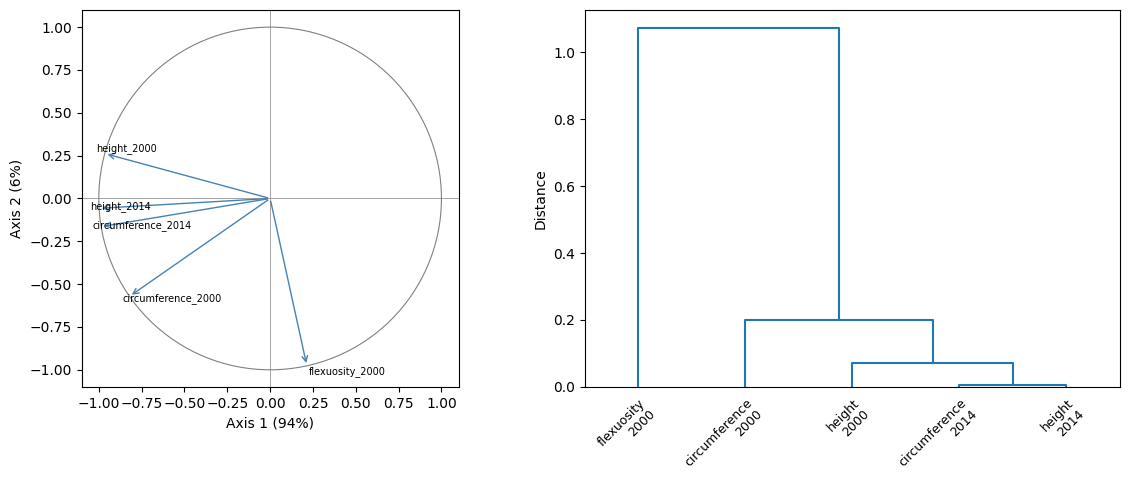
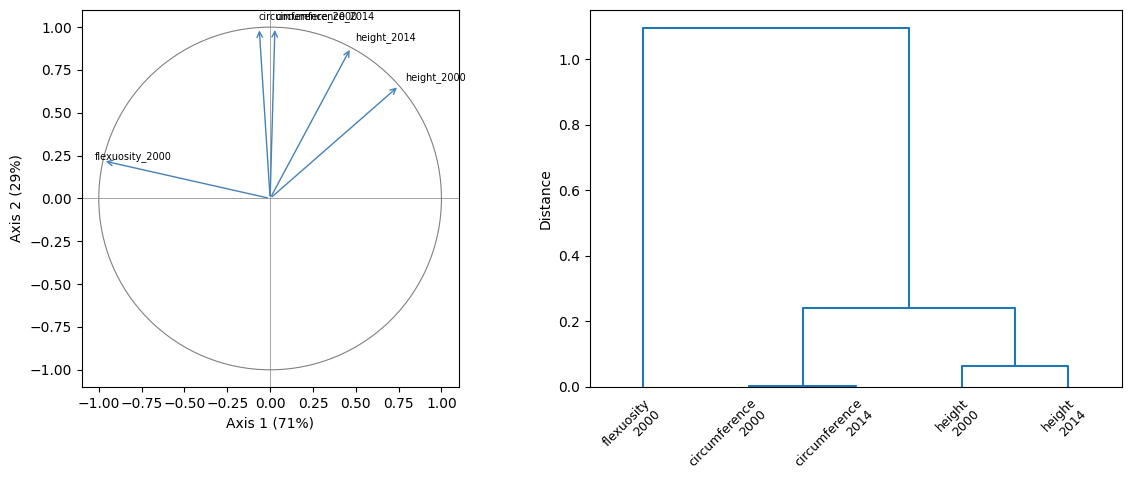
Built site for gh-pages

diff --git a/multivariate.html b/multivariate.html
@@ -389,68 +389,69 @@ window.Quarto = {
 <span id="cb4-21"><a href="#cb4-21" aria-hidden="true" tabindex="-1"></a></span>
 <span id="cb4-22"><a href="#cb4-22" aria-hidden="true" tabindex="-1"></a><span class="co"># prepare data</span></span>
 <span id="cb4-23"><a href="#cb4-23" aria-hidden="true" tabindex="-1"></a>df <span class="op">=</span> df[df[<span class="st">"year"</span>].isin([<span class="dv">2000</span>, <span class="dv">2014</span>])]</span>
-<span id="cb4-24"><a href="#cb4-24" aria-hidden="true" tabindex="-1"></a></span>
-<span id="cb4-25"><a href="#cb4-25" aria-hidden="true" tabindex="-1"></a><span class="bu">long</span> <span class="op">=</span> df.melt(</span>
-<span id="cb4-26"><a href="#cb4-26" aria-hidden="true" tabindex="-1"></a>    id_vars<span class="op">=</span>[<span class="st">"ID"</span>, <span class="st">"DAM"</span>, <span class="st">"SIRE"</span>, <span class="st">"BLOC"</span>, <span class="st">"year"</span>],</span>
-<span id="cb4-27"><a href="#cb4-27" aria-hidden="true" tabindex="-1"></a>    value_vars<span class="op">=</span>traits,</span>
-<span id="cb4-28"><a href="#cb4-28" aria-hidden="true" tabindex="-1"></a>    var_name<span class="op">=</span><span class="st">"trait"</span>,</span>
-<span id="cb4-29"><a href="#cb4-29" aria-hidden="true" tabindex="-1"></a>    value_name<span class="op">=</span><span class="st">"value"</span></span>
-<span id="cb4-30"><a href="#cb4-30" aria-hidden="true" tabindex="-1"></a>)</span>
-<span id="cb4-31"><a href="#cb4-31" aria-hidden="true" tabindex="-1"></a><span class="bu">long</span>[<span class="st">"resp"</span>] <span class="op">=</span> <span class="bu">long</span>[<span class="st">"trait"</span>] <span class="op">+</span> <span class="st">"_"</span> <span class="op">+</span> <span class="bu">long</span>[<span class="st">"year"</span>].astype(<span class="bu">str</span>)</span>
-<span id="cb4-32"><a href="#cb4-32" aria-hidden="true" tabindex="-1"></a>wide <span class="op">=</span> (</span>
-<span id="cb4-33"><a href="#cb4-33" aria-hidden="true" tabindex="-1"></a>    <span class="bu">long</span>.pivot_table(</span>
-<span id="cb4-34"><a href="#cb4-34" aria-hidden="true" tabindex="-1"></a>    index<span class="op">=</span>[<span class="st">"ID"</span>, <span class="st">"DAM"</span>, <span class="st">"SIRE"</span>, <span class="st">"BLOC"</span>],</span>
-<span id="cb4-35"><a href="#cb4-35" aria-hidden="true" tabindex="-1"></a>    columns<span class="op">=</span><span class="st">"resp"</span>, values<span class="op">=</span><span class="st">"value"</span></span>
-<span id="cb4-36"><a href="#cb4-36" aria-hidden="true" tabindex="-1"></a>    ).dropna(</span>
-<span id="cb4-37"><a href="#cb4-37" aria-hidden="true" tabindex="-1"></a>        axis<span class="op">=</span><span class="dv">1</span>,</span>
-<span id="cb4-38"><a href="#cb4-38" aria-hidden="true" tabindex="-1"></a>        how<span class="op">=</span><span class="st">"all"</span></span>
-<span id="cb4-39"><a href="#cb4-39" aria-hidden="true" tabindex="-1"></a>    ).reset_index()</span>
-<span id="cb4-40"><a href="#cb4-40" aria-hidden="true" tabindex="-1"></a>)</span>
-<span id="cb4-41"><a href="#cb4-41" aria-hidden="true" tabindex="-1"></a>responses <span class="op">=</span> [</span>
-<span id="cb4-42"><a href="#cb4-42" aria-hidden="true" tabindex="-1"></a>    c <span class="cf">for</span> c <span class="kw">in</span> wide.columns <span class="cf">if</span> c <span class="kw">not</span> <span class="kw">in</span> (</span>
-<span id="cb4-43"><a href="#cb4-43" aria-hidden="true" tabindex="-1"></a>        <span class="st">"ID"</span>,</span>
-<span id="cb4-44"><a href="#cb4-44" aria-hidden="true" tabindex="-1"></a>        <span class="st">"DAM"</span>,</span>
-<span id="cb4-45"><a href="#cb4-45" aria-hidden="true" tabindex="-1"></a>        <span class="st">"SIRE"</span>,</span>
-<span id="cb4-46"><a href="#cb4-46" aria-hidden="true" tabindex="-1"></a>        <span class="st">"BLOC"</span></span>
-<span id="cb4-47"><a href="#cb4-47" aria-hidden="true" tabindex="-1"></a>    )</span>
-<span id="cb4-48"><a href="#cb4-48" aria-hidden="true" tabindex="-1"></a>]</span>
-<span id="cb4-49"><a href="#cb4-49" aria-hidden="true" tabindex="-1"></a></span>
-<span id="cb4-50"><a href="#cb4-50" aria-hidden="true" tabindex="-1"></a><span class="co"># compute kinship</span></span>
-<span id="cb4-51"><a href="#cb4-51" aria-hidden="true" tabindex="-1"></a>ped <span class="op">=</span> prepare_pedigree(</span>
-<span id="cb4-52"><a href="#cb4-52" aria-hidden="true" tabindex="-1"></a>    wide[[</span>
-<span id="cb4-53"><a href="#cb4-53" aria-hidden="true" tabindex="-1"></a>        <span class="st">"ID"</span>,</span>
-<span id="cb4-54"><a href="#cb4-54" aria-hidden="true" tabindex="-1"></a>        <span class="st">"DAM"</span>,</span>
-<span id="cb4-55"><a href="#cb4-55" aria-hidden="true" tabindex="-1"></a>        <span class="st">"SIRE"</span></span>
-<span id="cb4-56"><a href="#cb4-56" aria-hidden="true" tabindex="-1"></a>    ]]</span>
-<span id="cb4-57"><a href="#cb4-57" aria-hidden="true" tabindex="-1"></a>)</span>
-<span id="cb4-58"><a href="#cb4-58" aria-hidden="true" tabindex="-1"></a>A   <span class="op">=</span> A_pedigree(ped)</span>
-<span id="cb4-59"><a href="#cb4-59" aria-hidden="true" tabindex="-1"></a></span>
-<span id="cb4-60"><a href="#cb4-60" aria-hidden="true" tabindex="-1"></a><span class="co"># initiatlisation</span></span>
-<span id="cb4-61"><a href="#cb4-61" aria-hidden="true" tabindex="-1"></a>P <span class="op">=</span> wide[responses].cov().to_numpy()</span>
-<span id="cb4-62"><a href="#cb4-62" aria-hidden="true" tabindex="-1"></a></span>
-<span id="cb4-63"><a href="#cb4-63" aria-hidden="true" tabindex="-1"></a><span class="co"># run the FA model</span></span>
-<span id="cb4-64"><a href="#cb4-64" aria-hidden="true" tabindex="-1"></a>model <span class="op">=</span> MixedModel.from_dataframe(</span>
-<span id="cb4-65"><a href="#cb4-65" aria-hidden="true" tabindex="-1"></a>    data     <span class="op">=</span> wide,</span>
-<span id="cb4-66"><a href="#cb4-66" aria-hidden="true" tabindex="-1"></a>    response <span class="op">=</span> responses,</span>
-<span id="cb4-67"><a href="#cb4-67" aria-hidden="true" tabindex="-1"></a>    fixed    <span class="op">=</span> <span class="st">"1"</span>,</span>
-<span id="cb4-68"><a href="#cb4-68" aria-hidden="true" tabindex="-1"></a>    random   <span class="op">=</span> Random(</span>
-<span id="cb4-69"><a href="#cb4-69" aria-hidden="true" tabindex="-1"></a>        unit         <span class="op">=</span> <span class="st">"ID"</span>,</span>
-<span id="cb4-70"><a href="#cb4-70" aria-hidden="true" tabindex="-1"></a>        left_hand    <span class="op">=</span> <span class="st">"fa"</span>,</span>
-<span id="cb4-71"><a href="#cb4-71" aria-hidden="true" tabindex="-1"></a>        n_axes       <span class="op">=</span> <span class="dv">2</span>,</span>
-<span id="cb4-72"><a href="#cb4-72" aria-hidden="true" tabindex="-1"></a>        right_hand   <span class="op">=</span> <span class="st">"str"</span>,</span>
-<span id="cb4-73"><a href="#cb4-73" aria-hidden="true" tabindex="-1"></a>        covariance   <span class="op">=</span> A,</span>
-<span id="cb4-74"><a href="#cb4-74" aria-hidden="true" tabindex="-1"></a>        matrix_index <span class="op">=</span> ped[<span class="st">"id"</span>].tolist(),</span>
-<span id="cb4-75"><a href="#cb4-75" aria-hidden="true" tabindex="-1"></a>        init         <span class="op">=</span> P<span class="op">/</span><span class="dv">2</span>,</span>
-<span id="cb4-76"><a href="#cb4-76" aria-hidden="true" tabindex="-1"></a>        jitter       <span class="op">=</span> <span class="fl">1e-6</span>,</span>
-<span id="cb4-77"><a href="#cb4-77" aria-hidden="true" tabindex="-1"></a>    ),</span>
-<span id="cb4-78"><a href="#cb4-78" aria-hidden="true" tabindex="-1"></a>    residual <span class="op">=</span> Residual(</span>
-<span id="cb4-79"><a href="#cb4-79" aria-hidden="true" tabindex="-1"></a>        left_hand    <span class="op">=</span> <span class="st">"fa"</span>,</span>
-<span id="cb4-80"><a href="#cb4-80" aria-hidden="true" tabindex="-1"></a>        n_axes       <span class="op">=</span> <span class="dv">2</span>,</span>
-<span id="cb4-81"><a href="#cb4-81" aria-hidden="true" tabindex="-1"></a>        right_hand   <span class="op">=</span> <span class="st">"iid"</span>,</span>
-<span id="cb4-82"><a href="#cb4-82" aria-hidden="true" tabindex="-1"></a>        init         <span class="op">=</span> P<span class="op">/</span><span class="dv">2</span>,</span>
-<span id="cb4-83"><a href="#cb4-83" aria-hidden="true" tabindex="-1"></a>        jitter       <span class="op">=</span> <span class="fl">1e-6</span>,</span>
-<span id="cb4-84"><a href="#cb4-84" aria-hidden="true" tabindex="-1"></a>    ),</span>
-<span id="cb4-85"><a href="#cb4-85" aria-hidden="true" tabindex="-1"></a>).fit()</span></code></pre></div><button title="Copy to Clipboard" class="code-copy-button"><i class="bi"></i></button></div>
+<span id="cb4-24"><a href="#cb4-24" aria-hidden="true" tabindex="-1"></a>df[traits] <span class="op">=</span> (df[traits] <span class="op">-</span> df[traits].mean()) <span class="op">/</span> df[traits].std()</span>
+<span id="cb4-25"><a href="#cb4-25" aria-hidden="true" tabindex="-1"></a></span>
+<span id="cb4-26"><a href="#cb4-26" aria-hidden="true" tabindex="-1"></a><span class="bu">long</span> <span class="op">=</span> df.melt(</span>
+<span id="cb4-27"><a href="#cb4-27" aria-hidden="true" tabindex="-1"></a>    id_vars<span class="op">=</span>[<span class="st">"ID"</span>, <span class="st">"DAM"</span>, <span class="st">"SIRE"</span>, <span class="st">"BLOC"</span>, <span class="st">"year"</span>],</span>
+<span id="cb4-28"><a href="#cb4-28" aria-hidden="true" tabindex="-1"></a>    value_vars<span class="op">=</span>traits,</span>
+<span id="cb4-29"><a href="#cb4-29" aria-hidden="true" tabindex="-1"></a>    var_name<span class="op">=</span><span class="st">"trait"</span>,</span>
+<span id="cb4-30"><a href="#cb4-30" aria-hidden="true" tabindex="-1"></a>    value_name<span class="op">=</span><span class="st">"value"</span></span>
+<span id="cb4-31"><a href="#cb4-31" aria-hidden="true" tabindex="-1"></a>)</span>
+<span id="cb4-32"><a href="#cb4-32" aria-hidden="true" tabindex="-1"></a><span class="bu">long</span>[<span class="st">"resp"</span>] <span class="op">=</span> <span class="bu">long</span>[<span class="st">"trait"</span>] <span class="op">+</span> <span class="st">"_"</span> <span class="op">+</span> <span class="bu">long</span>[<span class="st">"year"</span>].astype(<span class="bu">str</span>)</span>
+<span id="cb4-33"><a href="#cb4-33" aria-hidden="true" tabindex="-1"></a>wide <span class="op">=</span> (</span>
+<span id="cb4-34"><a href="#cb4-34" aria-hidden="true" tabindex="-1"></a>    <span class="bu">long</span>.pivot_table(</span>
+<span id="cb4-35"><a href="#cb4-35" aria-hidden="true" tabindex="-1"></a>    index<span class="op">=</span>[<span class="st">"ID"</span>, <span class="st">"DAM"</span>, <span class="st">"SIRE"</span>, <span class="st">"BLOC"</span>],</span>
+<span id="cb4-36"><a href="#cb4-36" aria-hidden="true" tabindex="-1"></a>    columns<span class="op">=</span><span class="st">"resp"</span>, values<span class="op">=</span><span class="st">"value"</span></span>
+<span id="cb4-37"><a href="#cb4-37" aria-hidden="true" tabindex="-1"></a>    ).dropna(</span>
+<span id="cb4-38"><a href="#cb4-38" aria-hidden="true" tabindex="-1"></a>        axis<span class="op">=</span><span class="dv">1</span>,</span>
+<span id="cb4-39"><a href="#cb4-39" aria-hidden="true" tabindex="-1"></a>        how<span class="op">=</span><span class="st">"all"</span></span>
+<span id="cb4-40"><a href="#cb4-40" aria-hidden="true" tabindex="-1"></a>    ).reset_index()</span>
+<span id="cb4-41"><a href="#cb4-41" aria-hidden="true" tabindex="-1"></a>)</span>
+<span id="cb4-42"><a href="#cb4-42" aria-hidden="true" tabindex="-1"></a>responses <span class="op">=</span> [</span>
+<span id="cb4-43"><a href="#cb4-43" aria-hidden="true" tabindex="-1"></a>    c <span class="cf">for</span> c <span class="kw">in</span> wide.columns <span class="cf">if</span> c <span class="kw">not</span> <span class="kw">in</span> (</span>
+<span id="cb4-44"><a href="#cb4-44" aria-hidden="true" tabindex="-1"></a>        <span class="st">"ID"</span>,</span>
+<span id="cb4-45"><a href="#cb4-45" aria-hidden="true" tabindex="-1"></a>        <span class="st">"DAM"</span>,</span>
+<span id="cb4-46"><a href="#cb4-46" aria-hidden="true" tabindex="-1"></a>        <span class="st">"SIRE"</span>,</span>
+<span id="cb4-47"><a href="#cb4-47" aria-hidden="true" tabindex="-1"></a>        <span class="st">"BLOC"</span></span>
+<span id="cb4-48"><a href="#cb4-48" aria-hidden="true" tabindex="-1"></a>    )</span>
+<span id="cb4-49"><a href="#cb4-49" aria-hidden="true" tabindex="-1"></a>]</span>
+<span id="cb4-50"><a href="#cb4-50" aria-hidden="true" tabindex="-1"></a></span>
+<span id="cb4-51"><a href="#cb4-51" aria-hidden="true" tabindex="-1"></a><span class="co"># compute kinship</span></span>
+<span id="cb4-52"><a href="#cb4-52" aria-hidden="true" tabindex="-1"></a>ped <span class="op">=</span> prepare_pedigree(</span>
+<span id="cb4-53"><a href="#cb4-53" aria-hidden="true" tabindex="-1"></a>    wide[[</span>
+<span id="cb4-54"><a href="#cb4-54" aria-hidden="true" tabindex="-1"></a>        <span class="st">"ID"</span>,</span>
+<span id="cb4-55"><a href="#cb4-55" aria-hidden="true" tabindex="-1"></a>        <span class="st">"DAM"</span>,</span>
+<span id="cb4-56"><a href="#cb4-56" aria-hidden="true" tabindex="-1"></a>        <span class="st">"SIRE"</span></span>
+<span id="cb4-57"><a href="#cb4-57" aria-hidden="true" tabindex="-1"></a>    ]]</span>
+<span id="cb4-58"><a href="#cb4-58" aria-hidden="true" tabindex="-1"></a>)</span>
+<span id="cb4-59"><a href="#cb4-59" aria-hidden="true" tabindex="-1"></a>A   <span class="op">=</span> A_pedigree(ped)</span>
+<span id="cb4-60"><a href="#cb4-60" aria-hidden="true" tabindex="-1"></a></span>
+<span id="cb4-61"><a href="#cb4-61" aria-hidden="true" tabindex="-1"></a><span class="co"># initiatlisation</span></span>
+<span id="cb4-62"><a href="#cb4-62" aria-hidden="true" tabindex="-1"></a>P <span class="op">=</span> wide[responses].cov().to_numpy()</span>
+<span id="cb4-63"><a href="#cb4-63" aria-hidden="true" tabindex="-1"></a></span>
+<span id="cb4-64"><a href="#cb4-64" aria-hidden="true" tabindex="-1"></a><span class="co"># run the FA model</span></span>
+<span id="cb4-65"><a href="#cb4-65" aria-hidden="true" tabindex="-1"></a>model <span class="op">=</span> MixedModel.from_dataframe(</span>
+<span id="cb4-66"><a href="#cb4-66" aria-hidden="true" tabindex="-1"></a>    data     <span class="op">=</span> wide,</span>
+<span id="cb4-67"><a href="#cb4-67" aria-hidden="true" tabindex="-1"></a>    response <span class="op">=</span> responses,</span>
+<span id="cb4-68"><a href="#cb4-68" aria-hidden="true" tabindex="-1"></a>    fixed    <span class="op">=</span> <span class="st">"1"</span>,</span>
+<span id="cb4-69"><a href="#cb4-69" aria-hidden="true" tabindex="-1"></a>    random   <span class="op">=</span> Random(</span>
+<span id="cb4-70"><a href="#cb4-70" aria-hidden="true" tabindex="-1"></a>        unit         <span class="op">=</span> <span class="st">"ID"</span>,</span>
+<span id="cb4-71"><a href="#cb4-71" aria-hidden="true" tabindex="-1"></a>        left_hand    <span class="op">=</span> <span class="st">"fa"</span>,</span>
+<span id="cb4-72"><a href="#cb4-72" aria-hidden="true" tabindex="-1"></a>        n_axes       <span class="op">=</span> <span class="dv">2</span>,</span>
+<span id="cb4-73"><a href="#cb4-73" aria-hidden="true" tabindex="-1"></a>        right_hand   <span class="op">=</span> <span class="st">"str"</span>,</span>
+<span id="cb4-74"><a href="#cb4-74" aria-hidden="true" tabindex="-1"></a>        covariance   <span class="op">=</span> A,</span>
+<span id="cb4-75"><a href="#cb4-75" aria-hidden="true" tabindex="-1"></a>        matrix_index <span class="op">=</span> ped[<span class="st">"id"</span>].tolist(),</span>
+<span id="cb4-76"><a href="#cb4-76" aria-hidden="true" tabindex="-1"></a>        init         <span class="op">=</span> P<span class="op">/</span><span class="dv">2</span>,</span>
+<span id="cb4-77"><a href="#cb4-77" aria-hidden="true" tabindex="-1"></a>        jitter       <span class="op">=</span> <span class="fl">1e-6</span>,</span>
+<span id="cb4-78"><a href="#cb4-78" aria-hidden="true" tabindex="-1"></a>    ),</span>
+<span id="cb4-79"><a href="#cb4-79" aria-hidden="true" tabindex="-1"></a>    residual <span class="op">=</span> Residual(</span>
+<span id="cb4-80"><a href="#cb4-80" aria-hidden="true" tabindex="-1"></a>        left_hand    <span class="op">=</span> <span class="st">"fa"</span>,</span>
+<span id="cb4-81"><a href="#cb4-81" aria-hidden="true" tabindex="-1"></a>        n_axes       <span class="op">=</span> <span class="dv">2</span>,</span>
+<span id="cb4-82"><a href="#cb4-82" aria-hidden="true" tabindex="-1"></a>        right_hand   <span class="op">=</span> <span class="st">"iid"</span>,</span>
+<span id="cb4-83"><a href="#cb4-83" aria-hidden="true" tabindex="-1"></a>        init         <span class="op">=</span> P<span class="op">/</span><span class="dv">2</span>,</span>
+<span id="cb4-84"><a href="#cb4-84" aria-hidden="true" tabindex="-1"></a>        jitter       <span class="op">=</span> <span class="fl">1e-6</span>,</span>
+<span id="cb4-85"><a href="#cb4-85" aria-hidden="true" tabindex="-1"></a>    ),</span>
+<span id="cb4-86"><a href="#cb4-86" aria-hidden="true" tabindex="-1"></a>).fit()</span></code></pre></div><button title="Copy to Clipboard" class="code-copy-button"><i class="bi"></i></button></div>
 </div>
 <p>A <a href="./variance_structures.html#jitter">jitter</a> is required as some specificities of the random effect <span class="math inline">\(\operatorname{diag}(\mathbf{\Psi_a})\)</span> are close to zero in this example.</p>
 <p>The factor-analytic can be read as a principal component analysis. Let us scale the covariance to correlation, interpret <span class="math inline">\(\mathbf{\Lambda_a}\)</span> as a raw amount of <span class="math inline">\(\mathbf{\Sigma_a}\)</span> explained by each axis, and study the structure of the genetic component of the traits in their correlative space.</p>